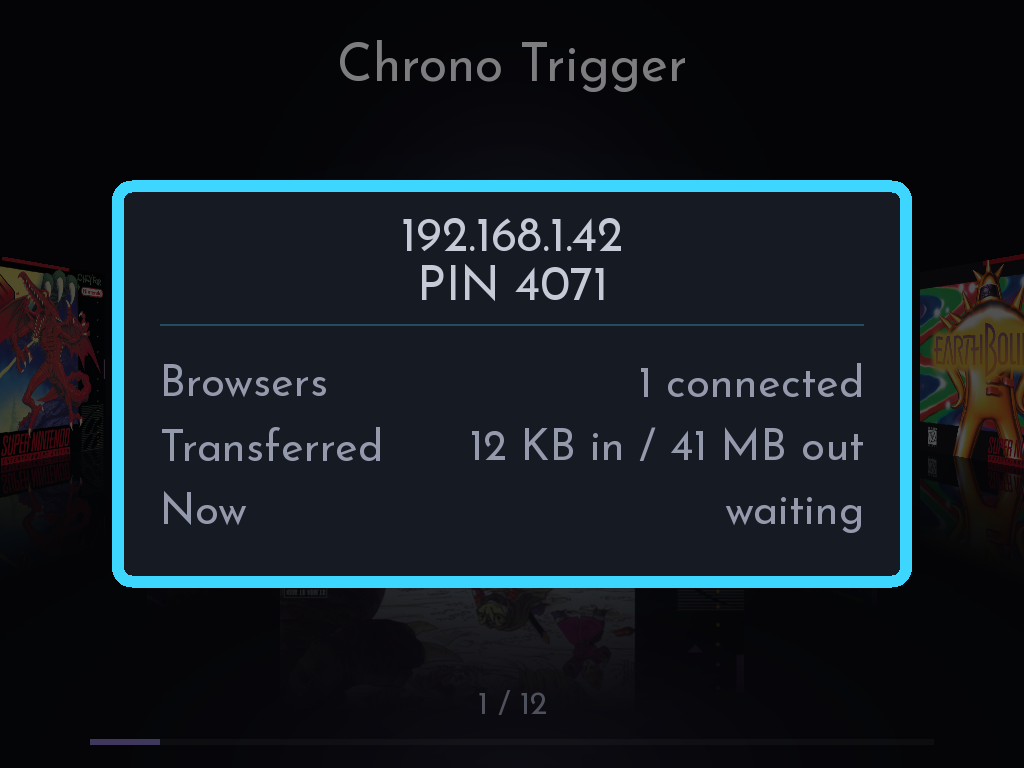
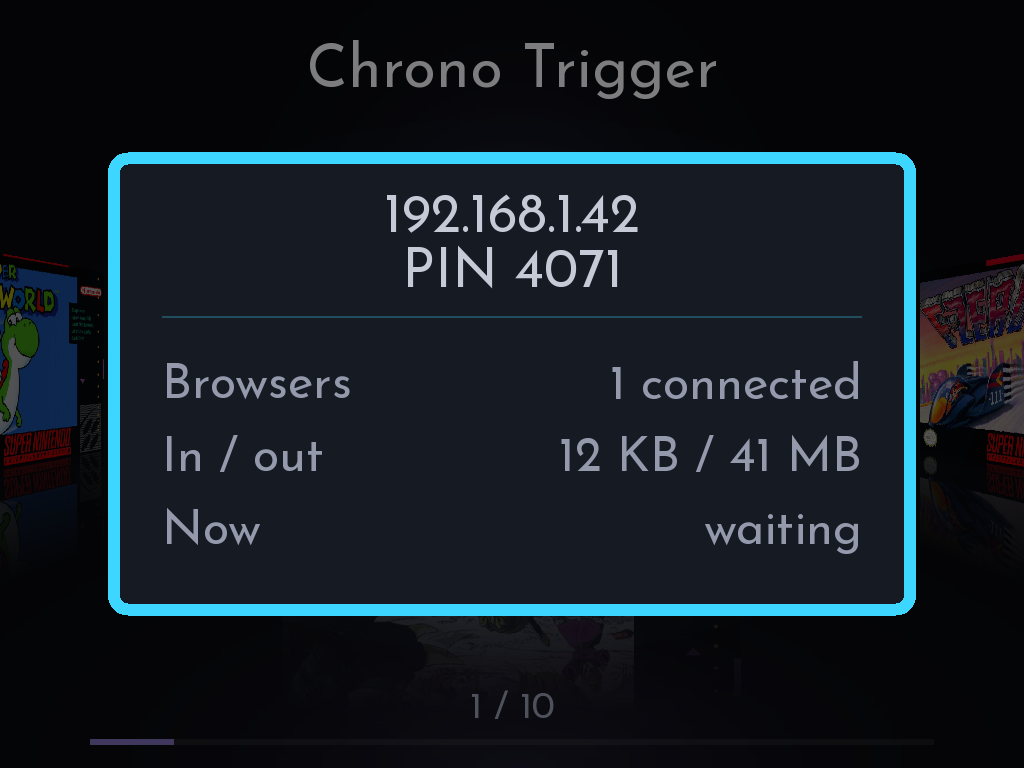
Over The Hare's transfer row reads "In / out" so it fits without scrolling

diff --git a/src/main.c b/src/main.c
@@ -5069,9 +5069,14 @@ static void hare_head(char *out, size_t n, const char *addr, const char *pin)
 static int hare_rows(menu_row *out, const char *who, const char *moved,
                      const char *now)
 {
-	out[0] = (menu_row){ "Browsers",    who,   false };
-	out[1] = (menu_row){ "Transferred", moved, false };
-	out[2] = (menu_row){ "Now",         now,   false };
+	out[0] = (menu_row){ "Browsers", who,   false };
+	/* "In / out", not "Transferred": the longest label on the panel beside
+	 * "12 KB in / 41 MB out" scrolled on every real session - just browsing
+	 * moves bytes both ways, so both numbers are never zero - and a still
+	 * caught it mid-word. Rendered 2026-09-30, this fits even at
+	 * "1.2 GB / 413.5 MB". Backlog 37. */
+	out[1] = (menu_row){ "In / out", moved, false };
+	out[2] = (menu_row){ "Now",      now,   false };
 	return 3;
 }
 
@@ -5249,7 +5254,7 @@ static void xfer_screen(app *a)
 
 			human_bytes(hin,  sizeof hin,  total_in);
 			human_bytes(hout, sizeof hout, total_out);
-			snprintf(moved, sizeof moved, "%s in / %s out", hin, hout);
+			snprintf(moved, sizeof moved, "%s / %s", hin, hout);
 		} else {
 			snprintf(moved, sizeof moved, "nothing yet");
 		}
@@ -10247,7 +10252,7 @@ static void take_shot(app *a)
 		            "37 found, 2 missing, 61 already", true);
 	if (shot_hare)
 		hare_preview(a, shot_hare_addr, "4071", shot_hare_who,
-		             "12 KB in / 41 MB out", shot_hare_head);
+		             "12 KB / 41 MB", shot_hare_head);
 	/* The synopsis card, from the card's own games table - so a shot of it is a
 	 * picture of real scraped text rather than a fixture. */
 	if (shot_syn) {
